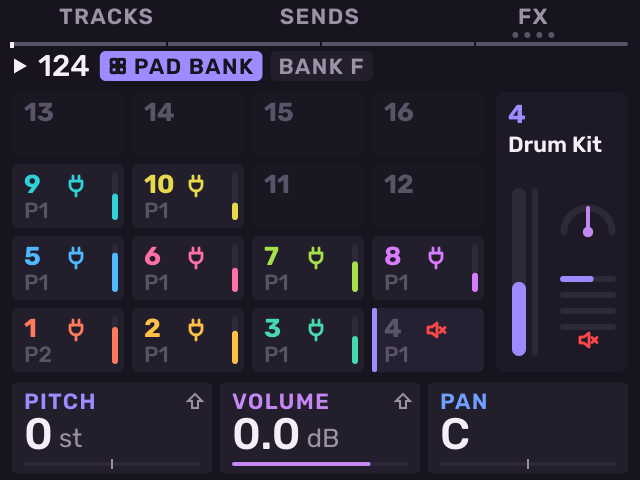
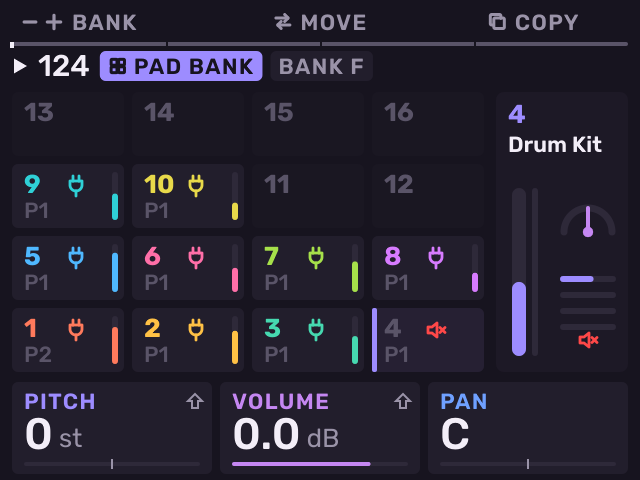
feat(melodee): Pad FX and Knob FX pressed together open the mixer on Tracks; Pad Bank held keeps Move and Copy on B2 and B3

Changed region(s): [[0.0312, 0.0, 0.25, 0.0625], [0.4062, 0.0, 0.5938, 0.0625], [0.75, 0.0, 0.9062, 0.0938]]

diff --git a/tests/melodee.cpp b/tests/melodee.cpp
@@ -9058,14 +9058,10 @@ void track_move() {
     swap_track_views(ui, 0, 1);
     CHECK(ui.track == 6);
 
-    // B1-B3 with Pad Bank held: alone, the MIX hub's TRACKS, SENDS, FX (Nothing here: track_soft() opens them);
-    // Shift + B2 MOVE, Shift + B3 COPY; then B1 steps back, then out; the active key again ends it.
+    // B1-B3 with Pad Bank held: B2 MOVE, B3 COPY; B1 steps back, then out; the active key again ends it.
     UiState held; held.pad_bank = true;
     CHECK(track_key(held, 0) == TrackKey::Nothing && held.copying == UiState::Copying::Off && held.pad_bank_used);
-    CHECK(track_key(held, 1) == TrackKey::Nothing && track_key(held, 2) == TrackKey::Nothing && held.copying == UiState::Copying::Off);
-    held.shift = true;
     CHECK(track_key(held, 1) == TrackKey::Started && held.copying == UiState::Copying::Tracks && held.moving && held.copy_from < 0);
-    held.shift = false;
     held.copy_from = 3;
     CHECK(track_key(held, 2) == TrackKey::Switched && !held.moving && held.copy_from == 3);
     CHECK(track_key(held, 0) == TrackKey::Back && held.copy_from < 0 && held.copying == UiState::Copying::Tracks);
@@ -9075,15 +9071,25 @@ void track_move() {
     start_track_pick(held, true); // Shift + B2 on Tracks
     CHECK(tracks_on_pads(held) && track_overlay_shown(held, 0) && held.moving);
     CHECK(track_key(held, 0) == TrackKey::Ended && !held.moving && !tracks_on_pads(held));
-    held.copying = UiState::Copying::Pads; held.pad_bank = true; held.shift = true;
+    held.copying = UiState::Copying::Pads; held.pad_bank = true;
     CHECK(track_key(held, 2) == TrackKey::Started && held.copying == UiState::Copying::Tracks && !held.moving); // a pad copy gives way
-    held.shift = false;
     // The MIX hub's row (shell/mix_hub.h): TRACKS, SENDS, and FX along the chains, a kit's pads' last.
     CHECK(mix_next(PageId::Stage, 0, false) == PageId::Tracks && mix_next(PageId::Tracks, 1, false) == PageId::Sends);
     CHECK(mix_next(PageId::Sends, 2, false) == PageId::Rack && mix_next(PageId::Rack, 2, false) == PageId::Bus);
     CHECK(mix_next(PageId::Bus, 2, false) == PageId::Master && mix_next(PageId::Master, 2, false) == PageId::Rack);
     CHECK(mix_next(PageId::Master, 2, true) == PageId::PadFx && mix_next(PageId::PadFx, 2, true) == PageId::Rack);
     CHECK(mix_section(PageId::Bus) == MixSection::Fx && mix_section(PageId::Stage) == MixSection::None);
+    {   // Pad FX + Knob FX together, either order: the MIX hub, neither's own job; alone, its job on release;
+        // Shift + either at once (Flex Beat, FX Select).
+        using SB = SurfaceButton;
+        UiState f;
+        CHECK(fx_chord(f, SB::PadFx, true) == FxChord::Wait && fx_chord(f, SB::PadFx, false) == FxChord::Own);
+        CHECK(fx_chord(f, SB::KnobFx, true) == FxChord::Wait && fx_chord(f, SB::PadFx, true) == FxChord::Mix);
+        CHECK(fx_chord(f, SB::KnobFx, false) == FxChord::Wait && fx_chord(f, SB::PadFx, false) == FxChord::Wait && !f.fx_chord_used);
+        CHECK(fx_chord(f, SB::KnobFx, true) == FxChord::Wait && fx_chord(f, SB::KnobFx, false) == FxChord::Own); // its own again
+        f.shift = true;
+        CHECK(fx_chord(f, SB::KnobFx, true) == FxChord::Own && fx_chord(f, SB::KnobFx, false) == FxChord::Wait && !f.knob_fx_down);
+    }
     held.moving = true; held.stop_copying();
     CHECK(!held.moving && held.copy_from < 0);
 

diff --git a/src/melodee/pages/track_grid.cpp b/src/melodee/pages/track_grid.cpp
@@ -105,7 +105,7 @@ void track_grid(Paint& p, const Snapshot& s) {
 }
 
 // Pad Bank held (MELODEE_PARITY.md decisions), or a track move or copy picking its tracks: the tracks over the
-// page, the kit's bank beside them, the MIX hub's keys (Shift: MOVE and COPY); the knob strip stays the page's.
+// page, the kit's bank beside them, MOVE and COPY on B2 and B3; the knob strip stays the page's.
 void draw_track_overlay(Paint& p, const Snapshot& s) {
     p.fill(0, zone::header_y, zone::width, zone::header_h + zone::picture_h, colour::bg);
     p.fill(0, zone::soft_y, zone::width, zone::soft_h, colour::bg);
@@ -115,16 +115,19 @@ void draw_track_overlay(Paint& p, const Snapshot& s) {
     bool kit = t.engine == EngineKind::Sampler;
     if (kit) h.left.push_back(pill(juce::String("BANK ") + char('A' + t.bank % sampler_banks)));
     header(p, h); // the selected track is the lit cell: no tag
-    // The MIX hub's TRACKS, SENDS, FX; with Shift, MOVE and COPY (shell/pad_bank.h); while one picks its tracks it is
-    // lit and B1 steps back. Minus / Plus still jump the kit's bank (the BANK pill says which).
+    // B2 MOVE, B3 COPY (shell/pad_bank.h); while one picks its tracks it is lit and B1 steps back. Held alone, B1's
+    // place shows what Minus / Plus do on a kit, in glyphs.
     bool picking = s.ui.copying == UiState::Copying::Tracks;
-    SoftKeys keys = mix_keys(s);
-    if (picking || s.ui.shift) {
-        keys = SoftKeys {{picking ? "BACK" : "", "MOVE", "COPY"}, picking ? (s.ui.moving ? 1 : 2) : -1, colour_of(s),
-                         {picking ? KeyIcon::Back : KeyIcon::None, KeyIcon::None, KeyIcon::None}};
-        keys.glyphs[1] = Icon::Swap; keys.glyphs[2] = Icon::Copy;
-    }
+    SoftKeys keys {{picking ? "BACK" : "", "MOVE", "COPY"}, picking ? (s.ui.moving ? 1 : 2) : -1, colour_of(s),
+                   {picking ? KeyIcon::Back : KeyIcon::None, KeyIcon::None, KeyIcon::None}};
+    keys.glyphs[1] = Icon::Swap; keys.glyphs[2] = Icon::Copy;
     soft_keys(p, keys);
+    if (kit && !picking) {
+        float mid = zone::soft_y + zone::soft_h / 2.0f;
+        icon(p, Icon::Minus, zone::pad + 4, mid - 5, 10, colour::mid, 1.6f);
+        icon(p, Icon::Plus, zone::pad + 16, mid - 5, 10, colour::mid, 1.6f);
+        p.text("BANK", zone::pad + 30, zone::soft_y, 60, zone::soft_h, caps_text(colour::mid));
+    }
     track_grid(p, s);
 }
 

diff --git a/src/melodee/shell/pad_bank.h b/src/melodee/shell/pad_bank.h
@@ -7,10 +7,9 @@
 // its next bank, A-H round (Shift: the previous one; on Punch the other bank
 // of punches); with Seq held, the bank of patterns the pads launch. Held: a pad picks that track, Minus / Plus or the wheel jump
 // banks, and after a second the screen shows the sixteen tracks (the pads are
-// the tracks at once); B1-B3 open the MIX hub (TRACKS, SENDS, FX); Shift + B2 MOVE moves a whole track to
-// another pad, Shift + B3 COPY (or Shift + Erase, as printed)
+// the tracks at once); B2 MOVE moves a whole track to another pad, B3 COPY (or Shift + Erase, as printed)
 // copies one, Erase + pad clears one (shell/track_copy.cpp). One job a tap, acted on release: no
-// double tap. MIDI thread.
+// double tap. MIDI thread. (The Tracks page itself: Pad FX + Knob FX, shell/mix_hub.h.)
 namespace melodee {
 
 class Context;
@@ -37,10 +36,9 @@ inline void start_track_pick(UiState& ui, bool move) {
     ui.copying = UiState::Copying::Tracks;
     ui.moving = move;
 }
-// B1-B3 while the pads are the tracks (Pad Bank held, or a move or copy picking its tracks): Shift + B2 MOVE and
-// Shift + B3 COPY start one (B2 / B3 alone while one is under way switch it, its track kept, and again end it); B1
-// steps back, from where to the track, then out. Nothing: Pad Bank held alone, B1-B3 open the MIX hub's TRACKS,
-// SENDS, FX (shell/mix_hub.h). Ignored: the pads are not the tracks, the page's keys answer.
+// B1-B3 while the pads are the tracks (Pad Bank held, or a move or copy picking its tracks): B2 MOVE and B3 COPY
+// start one, or switch the one under way (its track kept), and again end it; B1 steps back, from where to the
+// track, then out. Ignored: the pads are not the tracks, the page's keys answer.
 enum class TrackKey : uint8_t { Ignored, Nothing, Started, Switched, Back, Ended };
 inline TrackKey track_key(UiState& ui, int key) {
     if (!tracks_on_pads(ui)) return TrackKey::Ignored;
@@ -52,7 +50,6 @@ inline TrackKey track_key(UiState& ui, int key) {
         ui.stop_copying();
         return TrackKey::Ended;
     }
-    if (!picking && !ui.shift) return TrackKey::Nothing; // Pad Bank held alone: B1-B3 the MIX hub's (track_soft())
     bool move = key == 1;
     if (picking && ui.moving == move) { ui.stop_copying(); return TrackKey::Ended; }
     if (picking) { ui.moving = move; return TrackKey::Switched; }

diff --git a/src/melodee/shell/mix_hub.h b/src/melodee/shell/mix_hub.h
@@ -2,10 +2,11 @@
 // Copyright (C) 2026 Kerem Kilic (Ellic Studio)
 #pragma once
 #include "melodee/shell/ui_state.h"
+#include "surface/controls.h"
 
-// The MIX hub (docs/HUBS_PLAN.md, M-b): Tracks, Sends and the effect chains
-// share one row of keys, B1 TRACKS, B2 SENDS, B3 FX, on each of those pages
-// and while Pad Bank is held. FX is a cycle along the signal: the track's
+// The MIX hub (docs/HUBS_PLAN.md): Pad FX and Knob FX pressed together, in
+// either order, open it on Tracks from any page. Tracks, Sends and the effect
+// chains share one row of keys, B1 TRACKS, B2 SENDS, B3 FX. FX is a cycle along the signal: the track's
 // chain, a bus's, the master's, and on a kit the last pad's; the lit FX key
 // steps on, as Stage's keys do. A loop track's chain (the Looper's) keeps its
 // own keys. Pure, for the pages, the shell and the tests.
@@ -41,6 +42,27 @@ inline PageId mix_next(PageId page, unsigned key, bool kit) {
     unsigned count = mix_fx_pages(kit, pages);
     if (mix_section(page) != MixSection::Fx) return pages[0];
     return pages[(mix_fx_at(page, kit) + 1) % count];
+}
+
+// Pad FX and Knob FX: alone, each does its own job when let go (Pad FX the punches, Knob FX its mode on or off);
+// both down together, in either order, the MIX hub, and neither's own job. Shift + either (Flex Beat, FX Select,
+// as printed) acts as it goes down, as before.
+enum class FxChord : uint8_t { Own, Mix, Wait };
+inline FxChord fx_chord(UiState& ui, SurfaceButton b, bool pressed) {
+    bool pad = b == SurfaceButton::PadFx;
+    bool& mine = pad ? ui.pad_fx_down : ui.knob_fx_down;
+    bool other = pad ? ui.knob_fx_down : ui.pad_fx_down;
+    if (pressed) {
+        if (ui.shift && !other) return FxChord::Own; // printed Shift jobs: at once
+        mine = true;
+        if (other) { ui.fx_chord_used = true; return FxChord::Mix; }
+        return FxChord::Wait;
+    }
+    if (!mine) return FxChord::Wait; // went down with Shift: done then
+    mine = false;
+    bool used = ui.fx_chord_used;
+    if (!ui.pad_fx_down && !ui.knob_fx_down) ui.fx_chord_used = false;
+    return used ? FxChord::Wait : FxChord::Own;
 }
 
 } // namespace melodee

diff --git a/src/melodee/shell/button_jobs.cpp b/src/melodee/shell/button_jobs.cpp
@@ -51,7 +51,7 @@ bool button_has_shift_job(const Project& project, const UiState& ui, SurfaceButt
     case B::Chop: return kit && project.tracks[ui.track % track_count].pads[project.tracks[ui.track % track_count].last_pad % sampler_pads].used(); // Note On
     case B::SixteenLevels: return project.tracks[ui.track % track_count].used(); // the 16 Levels type
     case B::TopLeft: case B::TopMiddle: { // Loop Lock, Normalize on a kit's Stage TRIM; Extract, Split on Chop; LOAD, CLEAR on LAYERS
-        if (button == B::TopMiddle && (ui.page == PageId::Tracks || ui.pad_bank)) return true; // MOVE on Tracks, or Pad Bank held
+        if (button == B::TopMiddle && ui.page == PageId::Tracks) return true; // MOVE on Tracks
         if (!kit) return false;
         if (ui.page == PageId::Chop || ui.page == PageId::LayersPage) return true;
         const auto& tr = project.tracks[ui.track % track_count];
@@ -60,7 +60,7 @@ bool button_has_shift_job(const Project& project, const UiState& ui, SurfaceButt
         if (kind == StageKind::Trim && last.used() && project.samples[last.sample % sample_slots].instrument()) return false; // ZONES (round 3)
         return kind == StageKind::Trim || kind == StageKind::Layers;
     }
-    case B::TopRight: return (ui.page == PageId::Chop && kit) || ui.page == PageId::Tracks || ui.pad_bank || ui.page == PageId::Punch; // Merge; COPY on Tracks or Pad Bank held; QUANTIZE on Pad FX
+    case B::TopRight: return (ui.page == PageId::Chop && kit) || ui.page == PageId::Tracks || ui.page == PageId::Punch; // Merge; COPY on Tracks; QUANTIZE on Pad FX
     case B::SampleRecord: return kit;                                            // Audio Recall
     case B::Erase: // Copy: what the page holds (shell/erase_copy.h), or off
         return ui.copying != UiState::Copying::Off || copy_here(project, ui, kit_pads, key_pads) != CopyHere::None;

diff --git a/src/melodee/shell/shell.cpp b/src/melodee/shell/shell.cpp
@@ -24,6 +24,7 @@
 #include <cstdio>
 #include "melodee/shell/pad_bank.h"
 #include "melodee/shell/roll.h"
+#include "melodee/shell/mix_hub.h"
 #include "melodee/shell/stage_map.h"
 #include "melodee/shell/zoom_view.h"
 #include "melodee/shell/sample_mode.h"
@@ -231,6 +232,20 @@ void Shell::press(Button b, bool pressed) {
         return;
     }
     if (b == Button::Sample) { if (!ui.exit_open) sample_button(context_, true); return; } // shell/sample_mode.cpp: held, a pad picks a kit pad
+    if ((b == Button::PadFx || b == Button::KnobFx) && (!ui.exit_open || !pressed)) {
+        // Pad FX and Knob FX together, in either order: the MIX hub on Tracks (shell/mix_hub.h); alone, their own job
+        // when let go. Shift + either acts as it goes down (the cases below).
+        switch (fx_chord(ui, b, pressed)) {
+        case FxChord::Mix: context_.open(PageId::Tracks); end_copy_away(); return;
+        case FxChord::Wait: return;
+        case FxChord::Own:
+            if (pressed) break; // Shift: below, as printed
+            if (ui.exit_open || ui.ask != UiState::Ask::None) return; // let go under a sheet: nothing
+            if (b == Button::KnobFx) context_.knob_fx_button();
+            else context_.open(ui.page == PageId::Punch && context_.track().engine == EngineKind::Sampler ? PageId::PadPunch : PageId::Punch);
+            return;
+        }
+    }
     if ((b == Button::Loop || b == Button::SixteenLevels) && (!ui.exit_open || !pressed)) {
         // Loop and 16 Levels together, in either order: the Looper, and neither's own job (shell/looper_chord.h).
         // 16 Levels alone acts on its release (the last pad on all sixteen; Shift: the type, as it goes down).

diff --git a/src/melodee/shell/ui_state.h b/src/melodee/shell/ui_state.h
@@ -234,6 +234,8 @@ struct UiState {
     bool sample_held = false;   // Sample held: a pad picks a kit pad without playing it (as on the MPC)
     bool sample_used = false;   // a pad was picked meanwhile, so letting go opens no page
     uint32_t sample_down = 0;   // ms: when Sample went down (its sheet shows sample_sheet_ms after)
+    bool pad_fx_down = false, knob_fx_down = false; // Pad FX, Knob FX down (their own jobs wait for the release)
+    bool fx_chord_used = false;                     // both went down together: the MIX hub, and neither's own job
     // Seq held (shell/seq_layer.h): the Sequence layer on any page. When it went down, whether a control
     // did something meanwhile (its release then goes nowhere), and whether B1-B3 left for an editor (the
     // sheet stays away until Seq is let go). Each track's editor last open (0 none yet, then 1 + EditorKind).

diff --git a/src/melodee/shell/pad_bank.cpp b/src/melodee/shell/pad_bank.cpp
@@ -1,6 +1,5 @@
 // SPDX-License-Identifier: AGPL-3.0-only
 // Copyright (C) 2026 Kerem Kilic (Ellic Studio)
-#include "melodee/shell/mix_hub.h"
 #include "melodee/shell/pad_bank.h"
 #include "melodee/model/scales.h"
 #include "melodee/shell/ask.h"
@@ -94,12 +93,6 @@ bool track_pad(Context& c, unsigned pad) {
 bool track_soft(Context& c, int key) {
     bool moving = c.ui.moving;
     auto did = track_key(c.ui, key);
-    if (did == TrackKey::Nothing && c.ui.pad_bank) { // B1-B3: the MIX hub's TRACKS, SENDS, FX
-        PageId next = mix_next(c.ui.page, unsigned(key), c.track().engine == EngineKind::Sampler);
-        if (next == PageId::Rack) c.ui.fx_loop = -1;
-        if (next != c.ui.page) c.open(next);
-        return true;
-    }
     if (did == TrackKey::Ended) c.notice(moving ? "Move off" : "Copy off");
     return did != TrackKey::Ignored;
 }

diff --git a/docs/MELODEE.md b/docs/MELODEE.md
@@ -120,10 +120,10 @@ cards.
 | Main volume | Master level, at once | |
 | Sample | The SOUND hub (docs/HUBS_PLAN.md): Stage from any page; on Stage, B1's first page; it opens no other page. Held: after 0.3 s the track's pads (Pads on a kit, Keys otherwise) over the page, K1-K3 theirs, B1-B3 Stage's sections; on Steps and Roll the editor stays and the header names the held sound. Held + pad: that kit pad becomes the last pad, unheard. A hold released after 0.3 s with nothing used opens nothing | Input Config |
 | Seq | Tap: Patterns; on Patterns the track's editor (Steps, Roll or Motion, the last open); on an editor or Step Edit back a level. Held, on any page: the Sequence layer (Sequencing, below); after 0.3 s the Sequence sheet | Step Edit, under the editor; again back to it |
-| Pad FX | Pad FX (the punches); again on a kit track, Pad Punch | Flex Beat |
-| Knob FX | Knob FX mode on (lit, its page) or off | FX Select: the effect chains, Track → Sends → Bus → Master |
+| Pad FX | Pad FX (the punches); again on a kit track, Pad Punch. Acts on its release: with Knob FX, in either order, the MIX hub on Tracks (shell/mix_hub.h), and neither's own job | Flex Beat (at once) |
+| Knob FX | Knob FX mode on (lit, its page) or off, on its release; with Pad FX, the MIX hub | FX Select: the effect chains, Track → Sends → Bus → Master (at once) |
 | Shift | The second layer, held | |
-| Pad Bank | Next bank of the kit, A–H round. Held: the pads are the tracks at once, a pad picks one, and after a second the screen shows all sixteen; −/+ or the wheel jump banks; B1-B3 open the MIX hub, TRACKS, SENDS, FX (shell/mix_hub.h); Shift + B2 MOVE moves a track to another pad (one there trades places with it), Shift + B3 COPY (or Shift + Erase) copies one (while picking: B1 steps back); Erase + pad clears that track, asked first (sound, kit, patterns; its mix strip stays; one undo). One job a tap, on release: no double tap. On Roll with a synth or MIDI track: the pads an octave up | Previous bank; on Roll the octave down |
+| Pad Bank | Next bank of the kit, A–H round. Held: the pads are the tracks at once, a pad picks one, and after a second the screen shows all sixteen; −/+ or the wheel jump banks; B2 MOVE moves a track to another pad (one there trades places with it), B3 COPY (or Shift + Erase) copies one, B1 steps back; Erase + pad clears that track, asked first (sound, kit, patterns; its mix strip stays; one undo). One job a tap, on release: no double tap. On Roll with a synth or MIDI track: the pads an octave up | Previous bank; on Roll the octave down |
 | Fader | The pot turned last on the track (PIN keeps it) or a target the Fader page's wheel picks, or the page's own job (Fader below); its light follows the value | |
 | Erase | Held + pad, pot, step or fader: clear it (below). A tap on its own erases the page's selection (below); on Song, the clip under the cursor | Copy of what the page holds (below). With Pad Bank held, Erase + pad clears a track |
 | Note Repeat | A tap latches, a hold lasts (its arp is Stage's ARP, B2). On Song, repeats the clip to the next marker | |
@@ -331,7 +331,7 @@ Full, pad 9 red Faint; hues t track, l loop, w white, r red, o orange).
     tile makes that track at once; Push makes the one of the pot touched
     last (its key lit), the wheel turns that pot's list. Sound and channel
     are picked after, on Stage.
-- **Tracks** (Pad Bank held + B1 TRACKS, the mixer): the sixteen tracks as the
+- **Tracks** (Pad FX + Knob FX together, the MIX hub's B1): the sixteen tracks as the
   pads sit, each cell its number, the pattern it plays, its engine as a
   glyph and its level up the right edge (muted: a crossed speaker); the
   track in hand as a strip on the right with its name, fader, meter, pan
@@ -1281,7 +1281,7 @@ loud in what is heard. At 44.1 kHz they play to the bit as before.
   left / right, remove as cards, bypass lit (it stays open to hear the
   difference); the wheel moves, Push does it, B1 back; Push on the
   plus opens the picker, its families each with the strip's glyph. Sends
-  (also B2 SENDS on Tracks and the chains, or Pad Bank held + B2): one bus at a time, every track's send into it as a
+  (also B2 SENDS on Tracks and the chains): one bus at a time, every track's send into it as a
   strip; K1 the selected track's send into it, K2 which bus (the one Bus
   then shows), K3 the bus's return. B1 from Track on a kit: the last
   pad's chain.

diff --git a/docs/GUIDE.md b/docs/GUIDE.md
@@ -98,6 +98,7 @@ is different, and how to change your habits.
 | Press **STOP** twice to stop all sound. | Press **SHIFT** + **STOP** to stop all notes. |
 | **SHIFT** + **SEQ RECORD** brings the last loop into the sequence. | **SHIFT** + **SEQ RECORD** (Recall) puts the last phrase you played on every track into each track's next empty pattern. |
 | No looper. | Press **LOOP** and **16 LEVELS** together to open the **Looper**. |
+| No mixer. | Press **PAD FX** and **KNOB FX** together to open the mixer: **Tracks**, **Sends** and the effect chains. |
 | Power off with **POWER**. | A short press of **POWER** opens the Exit screen: stay, power off, or go back to the stock app. |
 
 ![Stage on a kit: AMP ENV, as in Sample mode](images/screens/stagekitampenv.png)
@@ -256,12 +257,9 @@ While **PAD BANK** is held for a second, the screen shows all 16 tracks.
 
 While **PAD BANK** is held:
 
-- Press **B1** (**TRACKS**), **B2** (**SENDS**) or **B3** (**FX**) to open
-  the mixer pages. They stay open when you let go.
-- Press **SHIFT** + **B2** (**MOVE**), then a track, then a pad to move the
-  track there. A track already there swaps places with it.
-- Press **SHIFT** + **B3** (**COPY**), then a track, then a pad to copy the
-  track there.
+- Press **B2** (**MOVE**), then a track, then a pad to move the track there.
+  A track already there swaps places with it.
+- Press **B3** (**COPY**), then a track, then a pad to copy the track there.
 - Press **ERASE** + pad to clear that track (asks first).
 - Turn the encoder or press **−** / **+** to change the kit's bank.
 
@@ -269,7 +267,7 @@ While **PAD BANK** is held:
 
 ### The Tracks page
 
-Hold **PAD BANK** and press **B1** (**TRACKS**) to open **Tracks**: all 16
+Press **PAD FX** and **KNOB FX** together to open **Tracks**: all 16
 tracks as the pads are laid out, with the selected track as a mixer strip on
 the right.
 
@@ -294,7 +292,8 @@ from 60 %, red from 85 %).
 | **SHIFT** + **B2** / **B3** | Move / copy a track. |
 
 Tracks, Sends and the effect chains share the keys **TRACKS**, **SENDS** and
-**FX**. Hold **PAD BANK** and press one of them to open it from any page.
+**FX**. Press **PAD FX** and **KNOB FX** together to open Tracks from any
+page; press them again there to come back to Tracks.
 
 ### Make a new track
 
@@ -1111,7 +1110,7 @@ own chain of four effects before the track's chain.
 
 ### Sends
 
-Press **B2** (**SENDS**) on Tracks, or hold **PAD BANK** and press **B2**, to
+Press **B2** (**SENDS**) on Tracks or on an effect chain to
 open **Sends**: one bus at a time, with every track's send to it. Press
 **−** / **+** to change the bus.
 
@@ -1464,8 +1463,8 @@ version on the **ABOUT** page.
 | --- | --- | --- |
 | **SAMPLE** | Stage, the track's sound pages; on Stage, its first page. Held: Pads or Keys; + pad: select a kit pad without playing it. | Input Config |
 | **SEQ** | Patterns, then the track's editor. Held: launch patterns. | Step Edit |
-| **PAD FX** | Pad FX. Again on a kit: Pad Punch. | Flex Beat |
-| **KNOB FX** | Knob FX mode on or off | Effect chains |
+| **PAD FX** | Pad FX. Again on a kit: Pad Punch. With **KNOB FX**: the mixer (Tracks). | Flex Beat |
+| **KNOB FX** | Knob FX mode on or off. With **PAD FX**: the mixer (Tracks). | Effect chains |
 | **PAD BANK** | Next bank. Held + pad: select a track. | Previous bank |
 | **ERASE** | Alone: erase the selection. Held + pad, knob, step or fader: erase | Copy |
 | **NOTE REPEAT** | Tap to latch, hold for momentary | |

diff --git a/docs/HUBS_PLAN.md b/docs/HUBS_PLAN.md
@@ -1,7 +1,7 @@
 # Hubs: plan
 
 Status: all picks made 2026-11-13 (S-B, P-a, M-b, R-a, T-a, PL-a, H-b).
-Step 1 (Stage tables, plug-in B1) built 1c25308. Step 2 (SAMPLE hub, SAMPLE held sheet; PAD BANK held B1 opens Tracks, step 3's first piece) built ecbca82. Step 3 (MIX hub: one TRACKS / SENDS / FX row, Pad Bank held B1-B3, MOVE / COPY on Shift) built. Steps 4–6 open.
+Step 1 (Stage tables, plug-in B1) built 1c25308. Step 2 (SAMPLE hub, SAMPLE held sheet; PAD BANK held B1 opens Tracks, step 3's first piece) built ecbca82. Step 3 (MIX hub: one TRACKS / SENDS / FX row) built 679355b; its opener became PAD FX + KNOB FX. Steps 4–6 open.
 Nothing built. Mockups: https://claude.ai/artifact/KysLcHsF6LN7pnAVFtS6ut
 
 ## Problem
@@ -31,7 +31,7 @@ actions, where it has any.
 | --- | --- | --- | --- | --- | --- |
 | SOUND | SAMPLE | source | play | out | kit pads / Keys layout |
 | SEQUENCE | SEQ | STEPS → TRIG → EUCLID | ROLL | MOTION → MOD | patterns (as today) |
-| MIX | PAD BANK held + B1–B3 | TRACKS | SENDS | FX: TRACK → SENDS → BUS → MASTER | the tracks (as today); SHIFT + B2 / B3 MOVE / COPY |
+| MIX | PAD FX + KNOB FX together | TRACKS | SENDS | FX: TRACK → BUS → MASTER (→ PAD on a kit) | — (PAD BANK held keeps the tracks and B2 / B3 MOVE / COPY) |
 | ARRANGE | SHIFT + PAD 12 | PATTERNS | SCENES | SONG | — |
 | Looper | LOOP + 16 LEVELS | LOOPS | MIX | MORE | LOOP held (as today) |
 
@@ -58,7 +58,7 @@ actions. Sheets keep B1 BACK / CANCEL and B3 the verb.
 | --- | --- | --- |
 | S | SOUND hub keys | B: same role on every track |
 | P | Patterns grid | P-a: ARRANGE hub (SHIFT + PAD 12) |
-| M | MIX hub opener | M-b: PAD BANK held, then B1–B3 (not SHIFT + KNOB FX: FX Select stays) |
+| M | MIX hub opener | PAD FX + KNOB FX pressed together (Kerem, after step 3; replaced M-b, PAD BANK held + B1–B3) |
 | R | Hub button inside its hub | R-a: home (B1's first page) |
 | T | Leaving a tool | T-a: its opener again |
 | PL | Plug-in's first page | PL-a: presets page when it has presets (the old Stage PRESET picture), else the plug-in's face (name, format, maker, load) |

diff --git a/docs/QUICKSTART.md b/docs/QUICKSTART.md
@@ -79,7 +79,8 @@ tracks.
 A new project has an empty kit on track 1. The other tracks are empty until
 you choose what they are (see [step 7](#7-add-a-plug-in-instrument)).
 
-To see all tracks as a mixer, hold **PAD BANK** and press **B1** (**TRACKS**).
+To see all tracks as a mixer, press **PAD FX** and **KNOB FX** together to
+open **Tracks**.
 Each cell shows a track's number, its pattern, its type and its level. Use
 **K2** to set the selected track's level and **K3** to set its pan.
 
